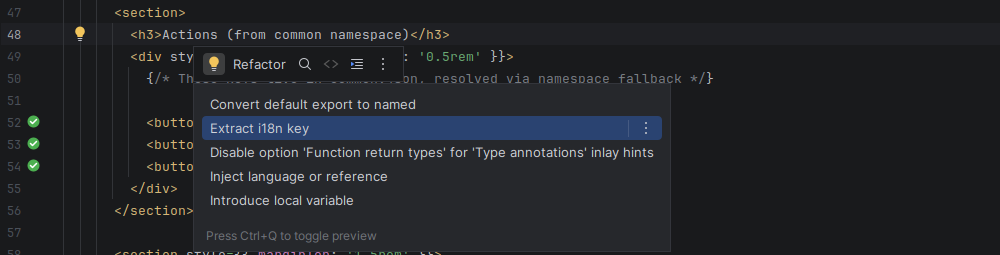
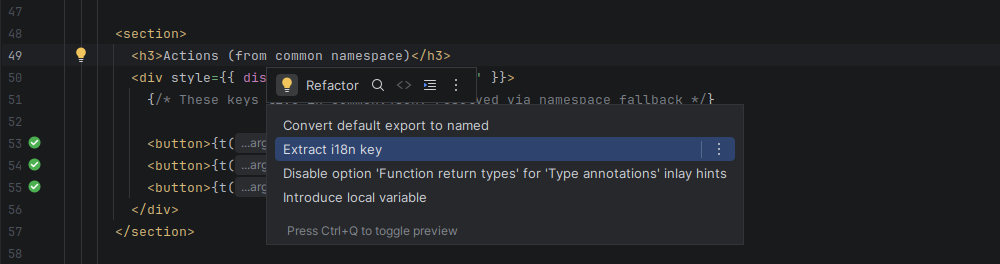
test(ui): take the navigation and extraction images with Starter, drop the gutter tooltip scenario (#713)
- navigation.png: the intention bulb of the JSON file and the main toolbar's
  project color (derived from the project name) made the two sessions differ;
  both are turned off for this scenario only.
- extraction-intent.png: the area is measured before the popup opens (the
  gutter is not found once it is), the intention preview is off and the
  plugin's intention is selected, as on the former image.
- extraction-translation-value.png: Create i18n key now opens Create
  Translation, not the former Translation Value input; the scenario captures
  that dialog. Its popup opens at (0, 0) under Xvfb, where the driver reads no
  text, so the fix is picked through the popup's speed search.
- gutter-icons-tooltip.png: no hover opened the gutter tooltip under Xvfb, and
  waiting for "i18n:" matched the status bar widget; the scenario is removed
  and the image stays manual (SCREENSHOTS_CHECKLIST.md).
- Harness: smooth scrolling off for the session, both tries of a failing
  scenario reported, and waitForText also reads the lists shown on screen.

diff --git a/src/uiTest/kotlin/com/ibrahimdans/i18n/plugin/ide/screenshots/EditorScreenshots.kt b/src/uiTest/kotlin/com/ibrahimdans/i18n/plugin/ide/screenshots/EditorScreenshots.kt
@@ -15,6 +15,7 @@ import com.intellij.driver.sdk.waitFor
 import com.intellij.driver.sdk.waitForCodeAnalysis
 import java.awt.Point
 import java.awt.Rectangle
+import java.awt.Robot
 import java.nio.file.Files
 import kotlin.time.Duration.Companion.minutes
 
@@ -54,13 +55,6 @@ object EditorScreenshots {
                 val editor = openEditor(NAVIGATION, navigation("common:actions.saxve", misspelledProfile = true))
                 editor.caretAtEndOf("common:actions.saxve')} /")
                 lines(editor, 11, 28, width = 1300)
-            },
-            Screenshot("gutter-icons-tooltip.png", keepPointer = true) {
-                val editor = openEditor(NAVIGATION, navigation("common:actions.saxve", misspelledProfile = true))
-                editor.caretAtEndOf("common:actions.saxve')} /")
-                frame.gutter().hoverOverIcon(15)
-                waitForText("the gutter badge tooltip") { it.startsWith("i18n:") }
-                lines(editor, 11, 20, width = 1300)
             },
             Screenshot("hover-hint.png", cleanUp = { driver.ui.keyboard { escape() } }) {
                 val editor = openEditor(NAVIGATION, navigation("common:actions.saxve", misspelledProfile = true))
@@ -102,22 +96,30 @@ object EditorScreenshots {
                 val editor = openEditor(NAVIGATION, navigation("common:actions.archive"))
                 editor.caretAtEndOf("common:actions.arch")
                 editorAction(editor, "ShowIntentionActions")
-                waitForText("the quick fixes") { it == "Create i18n key" }
+                // This popup opens at (0, 0) under Xvfb, in a window whose texts the driver does not
+                // read: it is given time to open, and its speed search picks the fix by name.
+                Robot().delay(QUICK_FIX_POPUP_MS)
                 editor.keyboard {
                     typeText("Create i18n key")
                     enter()
                 }
-                // A Messages input dialog: its title is not a component attribute, its prompt is.
-                lateinit var dialog: UiComponent
-                waitFor("the Translation Value dialog", 1.minutes) {
-                    driver.ui.xx("//div[@class='MyDialog']").list()
-                        .firstOrNull { it.hasSubtext("Enter translation value for") }?.also { dialog = it } != null
-                }
+                // The fix opens Create Translation on the key, which it checks before saying it is free.
+                val dialog = driver.ui.dialog(title = "Create Translation").also { it.waitFound(1.minutes) }
+                dialog.waitOneText("Key is available", timeout = 1.minutes)
                 dialog.boundsOnScreen
             },
-            Screenshot("navigation.png") {
+            Screenshot(
+                "navigation.png",
+                cleanUp = {
+                    driver.showIntentionBulb(true)
+                    driver.differentiateProjects(true)
+                },
+            ) {
                 val editor = openEditor(NAVIGATION, navigation("common:actions.saxve", misspelledProfile = true))
                 editor.caretAtEndOf("'navigation:menu.ho")
+                // The JSON file's bulb shows once its analysis ends, in one session and not the next.
+                driver.showIntentionBulb(false)
+                driver.differentiateProjects(false)
                 editorAction(editor, "GotoDeclaration")
                 // en and fr both declare the key: the IDE asks which file to open.
                 if (runCatching { waitForText("the declaration chooser") { it.endsWith("navigation.json") } }.isSuccess) {
@@ -128,12 +130,23 @@ object EditorScreenshots {
                 val bottom = lines(json, 1, 11, width = 1).let { it.y + it.height }
                 Rectangle(tabs.boundsOnScreen.x, tabs.boundsOnScreen.y, 760, bottom - tabs.boundsOnScreen.y)
             },
-            Screenshot("extraction-intent.png", cleanUp = { driver.ui.keyboard { escape() } }) {
+            Screenshot(
+                "extraction-intent.png",
+                cleanUp = {
+                    driver.ui.keyboard { escape() }
+                    driver.showIntentionPreview(true)
+                },
+            ) {
                 val editor = openEditor(DASHBOARD, reference(DASHBOARD))
                 editor.caretAtEndOf("<h3>Actions (from")
+                // Before the popup: once it is open, the frame's gutter is no longer found.
+                val area = lines(editor, 47, 58, width = 1000)
+                driver.showIntentionPreview(false)
                 editorAction(editor, "ShowIntentionActions")
                 waitForText("the intentions") { it == "Extract i18n key" }
-                lines(editor, 47, 58, width = 1000)
+                // The plugin's intention selected, second after the IDE's "Convert default export to named".
+                driver.ui.keyboard { down() }
+                area
             },
             Screenshot("extraction.png") {
                 extractionDialog().boundsOnScreen
@@ -153,7 +166,7 @@ object EditorScreenshots {
         ),
     )
 
-    /** *Show Translations Inline* on from the start: open editors are not folded when it is switched on (TASK-INLINE-TOGGLE-OPEN-EDITORS). */
+    /** *Show Translations Inline* on from the start, as for a user who turned it on before opening the file. */
     val FOLDING_SESSION = ScreenshotSession(
         "folding",
         listOf(
@@ -222,6 +235,8 @@ object EditorScreenshots {
         val bottom = editor.boundsOnScreen.y + editor.interact { visualLineToY(last) }
         return Rectangle(gutter.boundsOnScreen.x, top, width, bottom - top)
     }
+
+    private const val QUICK_FIX_POPUP_MS = 3000
 
     /** The list (a popup's) that renders [row]. */
     private fun ScreenshotScope.listShowing(row: String): UiComponent =

diff --git a/src/uiTest/kotlin/com/ibrahimdans/i18n/plugin/ide/screenshots/ScreenshotHarness.kt b/src/uiTest/kotlin/com/ibrahimdans/i18n/plugin/ide/screenshots/ScreenshotHarness.kt
@@ -48,10 +48,12 @@ class ScreenshotScope(val driver: Driver, val frame: IdeaFrameUI) {
     /**
      * Waits for a rendered text (list rows and table cells are not components) in the frame or in
      * a popup, which the IDE may open as a window of its own when it does not fit in the frame.
+     * Under Xvfb some popups open at (0, 0) in a window of another class: their lists are searched too.
      */
     fun waitForText(description: String, predicate: (String) -> Boolean) {
         waitFor(description, 1.minutes) {
-            (listOf<UiComponent>(frame) + driver.ui.xx("//div[@class='HeavyWeightWindow']").list())
+            val lists = driver.ui.xx { byType("javax.swing.JList") }.list().filter { it.component.isShowing() }
+            (listOf<UiComponent>(frame) + driver.ui.xx("//div[@class='HeavyWeightWindow']").list() + lists)
                 .any { window -> window.getAllTexts().any { predicate(it.text) } }
         }
     }
@@ -129,6 +131,7 @@ object ScreenshotHarness {
             // copied project has no node_modules, so "Install dependencies" is sure to show.
             closeAndDisableAllBalloonNotifications()
             stopCaretBlinking()
+            stopSmoothScrolling()
             ideFrame {
                 // Without a window manager under Xvfb the frame keeps its default size, which
                 // would make every capture depend on the IDE build rather than on the test.
@@ -136,6 +139,7 @@ object ScreenshotHarness {
                 waitFor("the IDE frame to take its fixed bounds", 1.minutes) { boundsOnScreen == FRAME_BOUNDS }
                 val scope = ScreenshotScope(this@useDriverAndCloseIde, this)
                 for (screenshot in screenshots) {
+                    var firstTry: Throwable? = null
                     try {
                         // WebStorm opens its evaluation prompt once a session, on a timer: a scenario
                         // it interrupts gets a second try once the prompt is closed.
@@ -147,6 +151,7 @@ object ScreenshotHarness {
                             capture(bounds, outputDirectory.resolve(runName).resolve(screenshot.fileName), screenshot.keepPointer)
                         }
                         runCatching(attempt).onFailure {
+                            firstTry = it
                             runCatching { screenshot.cleanUp(scope) }
                             attempt()
                         }
@@ -155,8 +160,9 @@ object ScreenshotHarness {
                         val failure = outputDirectory.resolve(runName).resolve("failed-${screenshot.fileName}")
                         Files.createDirectories(failure.parent)
                         ImageIO.write(Robot().createScreenCapture(Rectangle(0, 0, 1920, 1440)), "png", failure.toFile())
-                        val cause = generateSequence(e) { it.cause }.last()
-                        failures += "${screenshot.fileName} ($runName): ${cause.message?.lineSequence()?.firstOrNull()}, screen in $failure"
+                        // The second try often fails on what the first one left behind: both are reported.
+                        val first = firstTry?.let { "; first try: ${firstLine(it)}" }.orEmpty()
+                        failures += "${screenshot.fileName} ($runName): ${firstLine(e)}$first, screen in $failure"
                     } finally {
                         runCatching { screenshot.cleanUp(scope) }
                     }
@@ -165,6 +171,8 @@ object ScreenshotHarness {
         }
         return failures
     }
+
+    private fun firstLine(e: Throwable): String? = generateSequence(e) { it.cause }.last().message?.lineSequence()?.firstOrNull()
 
     /** WebStorm's own prompts, which open on a timer of their own and would sit over a capture. */
     private fun Driver.dismissIdePrompts() {

diff --git a/src/uiTest/kotlin/com/ibrahimdans/i18n/plugin/ide/screenshots/IdeTweaks.kt b/src/uiTest/kotlin/com/ibrahimdans/i18n/plugin/ide/screenshots/IdeTweaks.kt
@@ -13,6 +13,42 @@ interface SwingDefaults {
 @Remote("com.intellij.openapi.editor.ex.EditorSettingsExternalizable")
 interface EditorSettings {
     fun setBlinkCaret(blink: Boolean)
+    fun setShowIntentionBulb(show: Boolean)
+    fun setShowIntentionPreview(show: Boolean)
+    fun setSmoothScrolling(smooth: Boolean)
+}
+
+@Remote("com.intellij.ide.ui.UISettings")
+interface IdeUiSettings {
+    fun setDifferentiateProjects(differentiate: Boolean)
+    fun fireUISettingsChanged()
+}
+
+/** The editor's intention bulb, which shows or not depending on when the file's analysis ends. */
+fun Driver.showIntentionBulb(show: Boolean) {
+    service(EditorSettings::class).setShowIntentionBulb(show)
+}
+
+/** The preview beside the intentions popup, which is still loading in one session and filled in the next. */
+fun Driver.showIntentionPreview(show: Boolean) {
+    service(EditorSettings::class).setShowIntentionPreview(show)
+}
+
+/**
+ * The main toolbar's project color: it is derived from the project's name, which differs between
+ * the two sessions, and shows through the rounded corners of the editor's panel.
+ */
+fun Driver.differentiateProjects(differentiate: Boolean) {
+    withContext(OnDispatcher.EDT) {
+        val settings = service(IdeUiSettings::class)
+        settings.setDifferentiateProjects(differentiate)
+        settings.fireUISettingsChanged()
+    }
+}
+
+/** An animated scroll moves the editor between two reads of its position: a capture's bounds then drift. */
+fun Driver.stopSmoothScrolling() {
+    service(EditorSettings::class).setSmoothScrolling(false)
 }
 
 private val TEXT_COMPONENT_PREFIXES = listOf("TextField", "TextArea", "PasswordField", "FormattedTextField", "EditorPane", "TextPane")

diff --git a/docs/SCREENSHOTS_CHECKLIST.md b/docs/SCREENSHOTS_CHECKLIST.md
@@ -26,6 +26,11 @@
 `extraction.png`, `extraction-intent.png`, `extraction-add-namespace.png`, `gutter-icons.png`,
 `gutter-icons-tooltip.png`, `hover-hint.png`, `inlay-hints.png`, `navigation.png`.
 
+**Sans scénario : `gutter-icons-tooltip.png`** (recette manuelle). Sous Xvfb, aucun survol de l'icône de
+gouttière, ni `GutterUiComponent.hoverOverIcon` (ligne comptée à partir de 0), ni un mouvement `Robot` par
+petits pas, n'a ouvert l'infobulle (2026-11-01). Attendre « `i18n:` » ne prouve rien : la barre d'état
+affiche `i18n: en · 100 %`.
+
 ## Captures de la fenêtre d'outil et des réglages — refaites le 2026-10-26
 
 Vues *Tree / Table / Stats* dans la barre d'outils (#669), libellés et sous-pages de #666 / #667, WebStorm 2026.1.
@@ -59,11 +64,11 @@ Recette (ffmpeg `x11grab` + xdotool sous Xvfb, sandbox sans indices ni erreurs T
 | `key-completion.gif` | `t('auth:` puis `login.button.` : complétion des clés avec leur valeur |
 | `create-key-quickfix.gif` | clé inconnue `deposit-box:status.help`, *Create i18n key*, valeurs `en` / `fr`, clé résolue |
 
-À faire : *Show Translations Inline*, après TASK-INLINE-TOGGLE-OPEN-EDITORS (l'activation ne replie pas les éditeurs ouverts).
+À faire : *Show Translations Inline* (l'activation replie les éditeurs ouverts depuis #707).
 
 ## À vérifier
 - `sync-missing-keys.png` (mars) : refaire si le dialogue a changé d'aspect
-- `folding-before.png`, `folding-after.png`, `extraction-translation-value.png` (mars) : comparer avec l'IDE actuel
+- `folding-before.png`, `folding-after.png` (mars) : comparer avec l'IDE actuel
 
 ### Captures supplémentaires disponibles (non référencées par le README)
 - `annotation-partial.png` — Code JSX avec icônes gutter orange (partial translation)
